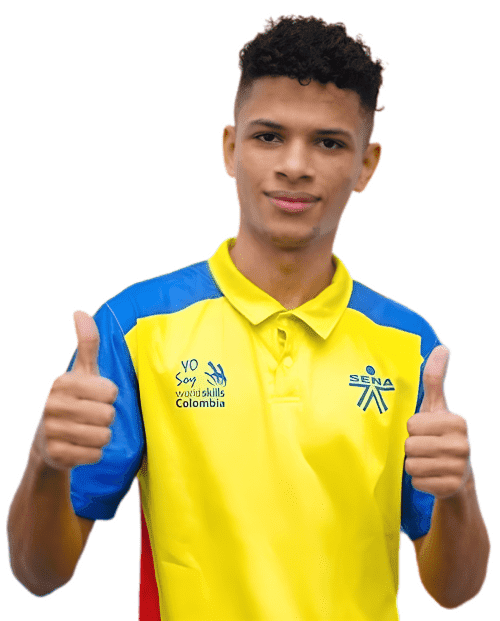
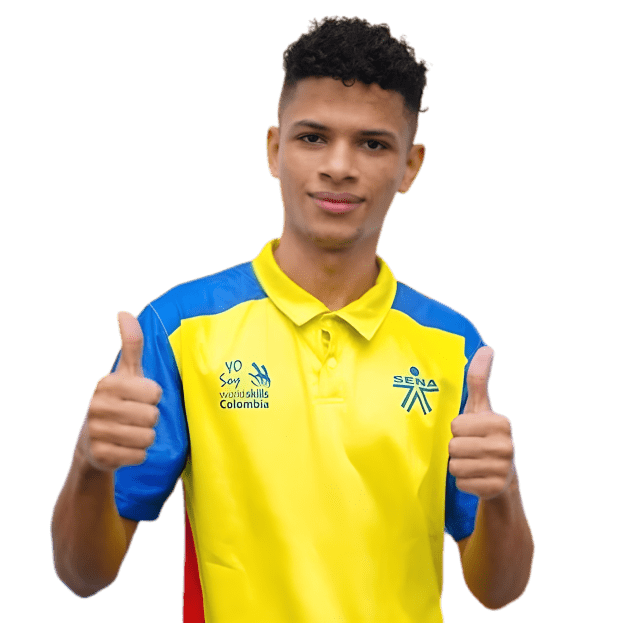
ajustar introduccion de mi portafolio

diff --git a/src/app/website/components/introduction/introduction.component.scss b/src/app/website/components/introduction/introduction.component.scss
@@ -1,17 +1,15 @@
 .container {
   display: flex;
   flex-direction: column;
-  gap: 5vh;
-  margin: auto;
-  padding: 1rem 5vw;
+  gap: 2vh;
+  width: 90vw;
+  margin: 0 auto;
   position: relative;
 
   .info {
     display: flex;
     flex-direction: column;
-    justify-content: space-evenly;
-    gap: 0.5vw;
-    min-height: 90vh;
+    gap: 3rem;
 
     .text {
       display: flex;
@@ -47,12 +45,11 @@
 
   .social_media {
     display: flex;
-    gap: 1vw;
-    margin-top: 3vh;
+    margin: 1rem 0;
+    gap: 2vw;
 
     a {
-      width: 3rem;
-      height: 3rem;
+      width: auto;
       cursor: pointer;
     }
   }
@@ -61,31 +58,32 @@
     display: flex;
     flex-direction: column;
     gap: 0.5rem;
-    margin: 0%;
 
     .title {
       color: var(--colorPrimary);
       font-weight: 500;
-      font-size: clamp(2.2rem, 2.2vw, 40rem);
+      font-size: 7vw;
+      margin-bottom: 1rem;
     }
 
     .Outstaning_item {
-      display: flex;
-      gap: 1rem;
+      display: grid;
+      grid-template-columns: 10% 85%;
+      gap: 2rem;
       align-items: center;
-      font-size: clamp(1.8rem, 1.8vw, 30rem);
+      font-size: 5vw;
 
       .image {
-        width: clamp(2rem, 2vw, 40rem);
-        height: clamp(2rem, 2vw, 40rem);
+        width: 4rem;
+
       }
     }
   }
 
   .email {
-    margin-top: clamp(1.8rem, 2vw, 30rem);
     color: var(--colorPrimary);
     font-size: clamp(1.8rem, 2vw, 30rem);
+
   }
 
   .btn {
@@ -100,26 +98,34 @@
   }
 
   .photo_languajes {
-    width: 70%;
-    max-width: 50rem;
-    margin: auto;
-    margin-top: 2rem;
+    width: 100%;
+    margin-top: 10rem;
     margin-bottom: 2rem;
     cursor: default;
     -webkit-user-select: none;
     user-select: none;
     position: relative;
 
+    .fondo_imagen {
+      width: 92vw;
+      margin: -1.2vw auto;
+      position: absolute;
+    }
+
     .image_photo {
-      width: auto;
-      z-index: 10;
+      width: 90vw;
+      margin: auto;
       display: flex;
       justify-content: center;
 
+      .profile {
+        z-index: 100;
+      }
+
       img {
-        width: 80%;
+        z-index: 2;
+        width: 100%;
         height: auto;
-        max-width: 35rem;
       }
     }
 
@@ -130,7 +136,7 @@
     }
 
     .levitate__1 {
-      bottom: 30%;
+      bottom: 40%;
     }
 
     .levitate__2 {
@@ -192,8 +198,10 @@
 
 @media (min-width: 700px) {
   .container {
+    gap: 1vw;
+
     .info {
-      gap: 3vw;
+      gap: 1vw;
       min-height: 0vh;
 
       .text {
@@ -211,6 +219,7 @@
       }
 
       .social_media {
+        margin: 1vw 0;
 
         a {
           width: 3vw;
@@ -224,68 +233,60 @@
 
         .title {
           font-size: 2.2vw;
+          margin-bottom: 1vw;
         }
 
         .Outstaning_item {
+          margin: 0;
+          display: flex;
           gap: 1vw;
           font-size: 1.8vw;
 
           .image {
-            width: 2vw;
-            height: 2vw;
+            width: 3vw;
           }
         }
       }
     }
 
     .btn {
-      width: 20vw;
+      width: 21vw;
       padding: 0.5vw;
-      font-size: 1vw;
+      font-size: 1.7vw;
+      margin: 0.8vw 0;
     }
   }
 }
 
 @media (min-width: 900px) {
   .container {
-    display: flex;
-    flex-direction: row;
+    display: grid;
+    grid-template-columns: 60% 40%;
     position: relative;
-    min-height: 60rem;
 
     .photo_languajes {
-      display: initial;
-      position: absolute;
-      bottom: -2rem;
-      right: 2%;
-      width: 50%;
-      max-width: none;
+      width: 100%;
+      position: relative;
 
       .image_photo {
-        img {
-          width: 70%;
-          max-width: none;
+        position: absolute;
+        width: 100%;
+        object-fit: scale-down;
+        bottom: 0;
+
+        .fondo_imagen {
+          margin-top: 0;
+          width: 100%;
+          transform: translateY(-1.2%);
+          object-fit: scale-down;
         }
-      }
 
-      .levitate {
-        display: initial;
-      }
-    }
-  }
-}
-
-@media (min-width: 1200px) {
-  .container {
-    height: 91vh;
-
-    .photo_languajes {
-      width: 40%;
-
-      .image_photo {
-        img {
-          width: 70%;
-          max-width: none;
+        .profile {
+          width: 98%;
+          margin: 0;
+          padding: 0;
+          z-index: 100;
+          object-fit: scale-down;
         }
       }
 

diff --git a/src/app/website/components/introduction/introduction.component.html b/src/app/website/components/introduction/introduction.component.html
@@ -13,23 +13,36 @@
 
       <div class="social_media">
         <a target="_blank" rel="noopener" href="https://github.com/juandiegows" title="GitHub JuanDiegoWS">
-          <app-image [activeFilter]="true" srcImg="/assets/img/Icons/SocialMedia/GitHub.svg" textAlt="Github" />
+          <div class="image__social_media">
+            <app-image [activeFilter]="true" srcImg="/assets/img/Icons/SocialMedia/GitHub.svg" textAlt="Github" />
+          </div>
         </a>
         <a target="_blank" rel="noopener" href="https://www.linkedin.com/in/juandiegows/" title="Linked JuanDiegoWS">
-          <app-image [activeFilter]="true" srcImg="/assets/img/Icons/SocialMedia/Linked.svg" textAlt="Linked" />
+          <div class="image__social_media">
+
+            <app-image [activeFilter]="true" srcImg="/assets/img/Icons/SocialMedia/Linked.svg" textAlt="Linked" />
+          </div>
         </a>
         <a target="_blank" rel="noopener" href="https://www.instagram.com/juandiego.ws/" title="Instagram JuanDiego.WS">
-          <app-image [activeFilter]="true" srcImg="/assets/img/Icons/SocialMedia/Instagram.svg" textAlt="Instagram" />
+          <div class="image__social_media">
+            <app-image [activeFilter]="true" srcImg="/assets/img/Icons/SocialMedia/Instagram.svg" textAlt="Instagram" />
+          </div>
         </a>
         <a target="_blank" rel="noopener" href="https://twitter.com/juandiegows" title="Twitter JuanDiegoWS">
-          <app-image [activeFilter]="true" srcImg="/assets/img/Icons/SocialMedia/twitter.svg" textAlt="Twitter" />
+          <div class="image__social_media">
+            <app-image [activeFilter]="true" srcImg="/assets/img/Icons/SocialMedia/twitter.svg" textAlt="Twitter" />
+          </div>
         </a>
         <a target="_blank" rel="noopener" href="https://web.facebook.com/juandiego.wsc/" title="YouTube JuanDiegoWS">
-          <app-image [activeFilter]="true" srcImg="/assets/img/Icons/SocialMedia/FB.svg" textAlt="FB" />
+          <div class="image__social_media">
+            <app-image [activeFilter]="true" srcImg="/assets/img/Icons/SocialMedia/FB.svg" textAlt="FB" />
+          </div>
         </a>
         <a target="_blank" rel="noopener" href="https://www.youtube.com/channel/UCBruvsN18FvqNHSHe7E6WWg"
           title="GitHub JuanDiegoWS">
-          <app-image [activeFilter]="true" srcImg="/assets/img/Icons/SocialMedia/YouTube.svg" textAlt="Youtube" />
+          <div class="image__social_media">
+            <app-image [activeFilter]="true" srcImg="/assets/img/Icons/SocialMedia/YouTube.svg" textAlt="Youtube" />
+          </div>
         </a>
       </div>
       <a target="_blank" href="mailto:mejiamaestrejuandiego@gmail.com" class="email">mejiamaestrejuandiego@gmail.com</a>
@@ -72,11 +85,14 @@
     <a class="btn" [href]="data.linkDownload" download>{{data.btnDownload}}</a>
   </div>
 
-
-
   <div class="photo_languajes">
     <div class="image_photo">
-      <img src="/assets/img/photo/profile.png" alt="mi foto de perfil">
+      <div class="fondo_imagen">
+        <app-image [activeFilter]="true" srcImg="/assets/img/photo/profile.png"></app-image>
+      </div>
+      <div class="profile">
+        <app-image srcImg="/assets/img/photo/profile.png"></app-image>
+      </div>
     </div>
     <app-levitate-icon srcImg="/assets/img/Icons/Languaje/js.svg" textAlt="js" class="levitate levitate__1" />
     <app-levitate-icon srcImg="/assets/img/Icons/Languaje/java.svg" textAlt="java" class="levitate levitate__2" />

diff --git a/src/app/website/components/image/image.component.scss b/src/app/website/components/image/image.component.scss
@@ -1,11 +1,6 @@
-.container_img {
-  width: 100%;
-  height: 100%;
-
-  img {
+img {
     width: 100%;
-    height: 100%;
-    object-fit: contain;
+    object-fit: fill;
     -webkit-user-select: none;
     user-select: none;
     pointer-events: none;
@@ -20,4 +15,3 @@
     filter: var(--colorPrimaryF);
     transition: var(--myTransition);
   }
-}

diff --git a/src/app/website/components/image/image.component.html b/src/app/website/components/image/image.component.html
@@ -1,3 +1,1 @@
-<div class="container_img">
-  <img [class.filter]="activeFilter" [src]="srcImg" alt="{{textAlt}}" (error)="setImgDefault()">
- </div>
+<img [class.filter]="activeFilter" [src]="srcImg" alt="{{textAlt}}" (error)="setImgDefault()">

diff --git a/src/app/website/components/header/header.component.scss b/src/app/website/components/header/header.component.scss
@@ -8,7 +8,7 @@
   left: 0;
   top: 0;
   padding: 1vh 5vw;
-  z-index: 100;
+  z-index: 10000;
   margin: 0;
   background-color: var(--background);
 
